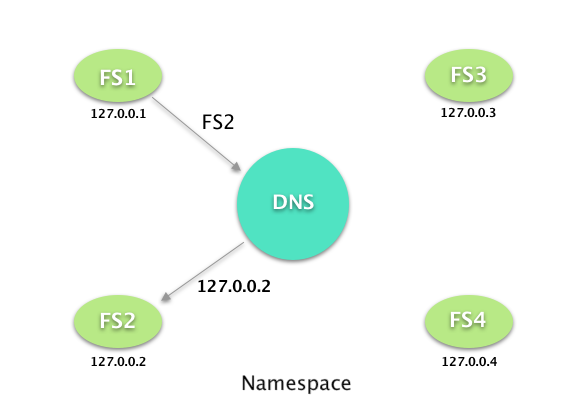
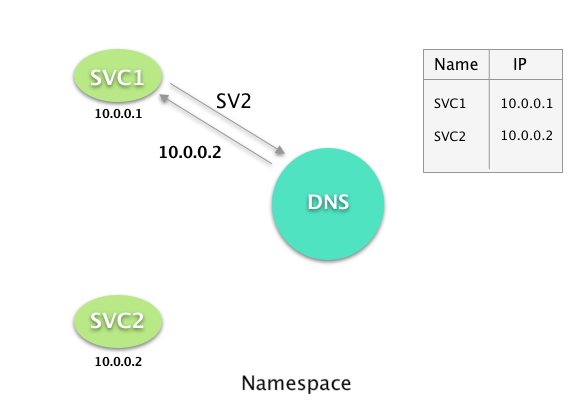
update doc

diff --git a/blog/articles/namespace-storage.md b/blog/articles/namespace-storage.md
@@ -5,39 +5,38 @@
 
 ## Namespace
 
-Namespace یک فضای اختصاص داده شده به سرویسهای شماست، سرویسهای یک namespace از طریق شبکه داخلی قادر به دسترسی به یکدیگر هستند 
-و فضای ذخیرهسازی اشتراکی (Shared-Storage) دارند.
-در حال حاضر برای هر کاربر پس از عضویت به طور خودکار یک Namespace ایجاد میشود.
+هر Namespace یک فضای مجازی بر روی ابر فندق است. سرویسهای شما بر روی Namespace که خود شما موقع ثبت نام، نام آن را مشخص کردهاید اجرا میشوند. سرویسهای یک Namespace از طریق شبکه داخلی میتوانند به یکدیگر دسترسی داشته باشند.
+همچنین هر Namespace فضاهای ذخیرهسازی (Storage) مختص به خود را دارد که فقط سرویسهای که در آن Namespace در حال اجرا هستند به آنها دسترسی دارند.
+در حال حاضر برای هر کاربر پس از عضویت به طور خودکار یک Namespace با نامی که زمان ثبت نام مشخص کرده ایجاد میشود.
 
 ## Network
 
-هر Namespace در میزبان تعدادی سرویس می باشد که کاربر آن ها را ساخته است و هر سرویس دارای یک آدرس `IP` و یک `service_name` می باشد.
-برای درک هرچه بهتر موضوع به تصویر زیر توجه کنید.
+هر Namespace میزبان تعدادی سرویس است که کاربر آن ها را ساخته است. هر سرویس دارای یک آدرس `IP` و یک `service_name` است.
+برای درک چه بهتر موضوع به تصویر زیر توجه کنید.
 
 !(/articles/service_relation.png "Fandogh Network")
 
-همانگونه که مشاهده می کنید در فضای اختصاصی (Namespace) تعداد 4 سرویس ساخته شده است و فندق به هر سرویس ایجاد شده یک IP اختصاصی می دهد و همینطور هر سرویس دارای مشخصه دیگری به نام `service_name` می باشد.
-مشخصه اصلی برای آنکه سرویس ها همدیگر را پیدا کنند و با هم تعامل داشته باشند بر `service_name` می باشد.زیرا که اگر تحت هر شرایطی یکی از سرویس ها Destroy  شود و دوباره ساخته شود، IP جدیدی به آن تخصیص داده می شود.
+همانگونه که مشاهده می کنید در این Namespace تعداد 4 سرویس ساخته شده است و فندق به هر سرویس ایجاد شده یک IP اختصاص داده و همینطور هر سرویس دارای مشخصه دیگری به نام `service_name` است.
+مشخصه اصلی برای آنکه سرویس ها همدیگر را پیدا کنند و با هم تعامل داشته باشند `service_name` است.  زیرا که اگر تحت هر شرایطی یکی از سرویس ها Redeploy  شود، IP جدیدی به آن تخصیص داده خواهد شد.
 
-برای مثال اگر فرض کنیم سرویس FS1 با FS2 در تماس بوده ولی بعد از 1 ساعت سرویس FS2 از بین برود، سرویس FS1 دیگر دسترسی به FS2  نداشته و از طرفی هم نمی داند که IP مربوط به FS2 چند بود ولی
-نام سرویس را می داند و اگر دوباره بخواهد با آن کار کند، نام سرویس را به DNS  میفرستد تا IP آن سرویس را بگیرد.
+برای مثال اگر فرض کنیم سرویس SVC1 با SVC2 در تعامل بوده ولی بعد از مدتی 
+نسخه جدیدی از سرویس SVC2 بر روی فندق deploy شده باشد، سرویس SVC1 با پرس و جو از DNS میتواند IP جدید سرویس مورد نظر را پیدا کند و به تعامل ادامه دهد.
 
 ## DNS
 
-همانطور که میدانیم هر وبسایت در فضای اینترنت دارای یک IP می باشد که این IP شناسه آن سایت می باشد، اما از آن جایی که بخاطر سپردن این IP Addressها دشوار می باشد، برای همین از سیستمی به نام DNS یا Domain Name System 
-استفاده میکنیم، بدین صورت که به هر IP یک اسم دامنه نصبت میدهیم مانند `Fandogh.cloud`.
+همانطور که میدانیم هر وب سایت و یا وب سرویس در فضای اینترنت دارای یک شناسه با نام IP است، اما از آنجایی که بخاطر سپردن این IP Addressها دشوار است، از سرویسی به نام DNS یا Domain Name System استفاده میشود، این سرویس وظیفه ترجمه نامها به IP منتسب شده به آن را بر عهده دارد.
 
-حال با توجه به بخش قبل، سرویس ها `service_name` را به DNS می دهند تا IP سرویس مورد نظر را به دست آورده و به آن متصل شوند.
+در فندق نیز هر Namespace دارای DNS Server مختص به خود است که وظیفه ترجمه نام سرویسها به IP سرویس را بر عهده دارد.
 
 !(/articles/dns_namespace.png "Fandogh DNS")
 
 
 ## Storage
 
-همانطور که انتظار می رود هر سرویس باید بتواند در فضایی اطلاعات خود را بنویسد و بخواند، به همین جهت هر Namepace به همراه یک فضای ذخیره و بازیابی اطلاعاتی به نام `shared-storage` ساخته می شود.
-همه سرویس ها به این فضای اطلاعاتی دسترسی دارند و می توانند عملیات Read و Write  بر روی آن انجام دهند.
+همانطور که انتظار می رود هر سرویس باید بتواند در فضایی مانا اطلاعات خود را دخبره و بازیابی کند، به همین جهت هر Namepace به همراه یک فضای ذخیره و بازیابی اطلاعاتی ساخته می شود.
+به صورت پیش فرض همه سرویس ها به این فضای اطلاعاتی دسترسی دارند و می توانند عملیات Read و Write  بر روی آن انجام دهند.
 
 !(/articles/shared_storage.png "Fandogh shared-storage")
 
-`<b>توجه داشته باشید هر Container دارای یک فضای Storage داخلی می باشد اما استفاده از آن توصیه نمیشود زیرا که این فضا مانا نیست و هر بار که Container از بین برود، اطلاعات شما هم به همراه آن Container از بین می رود.</b>`
+**توجه داشته باشید هر Container دارای یک فضای Storage داخلی است اما استفاده از آن توصیه نمیشود زیرا که این فضا مانا نیست و هر بار که Container از بین برود، اطلاعات شما هم به همراه آن Container از بین می رود.**
  
